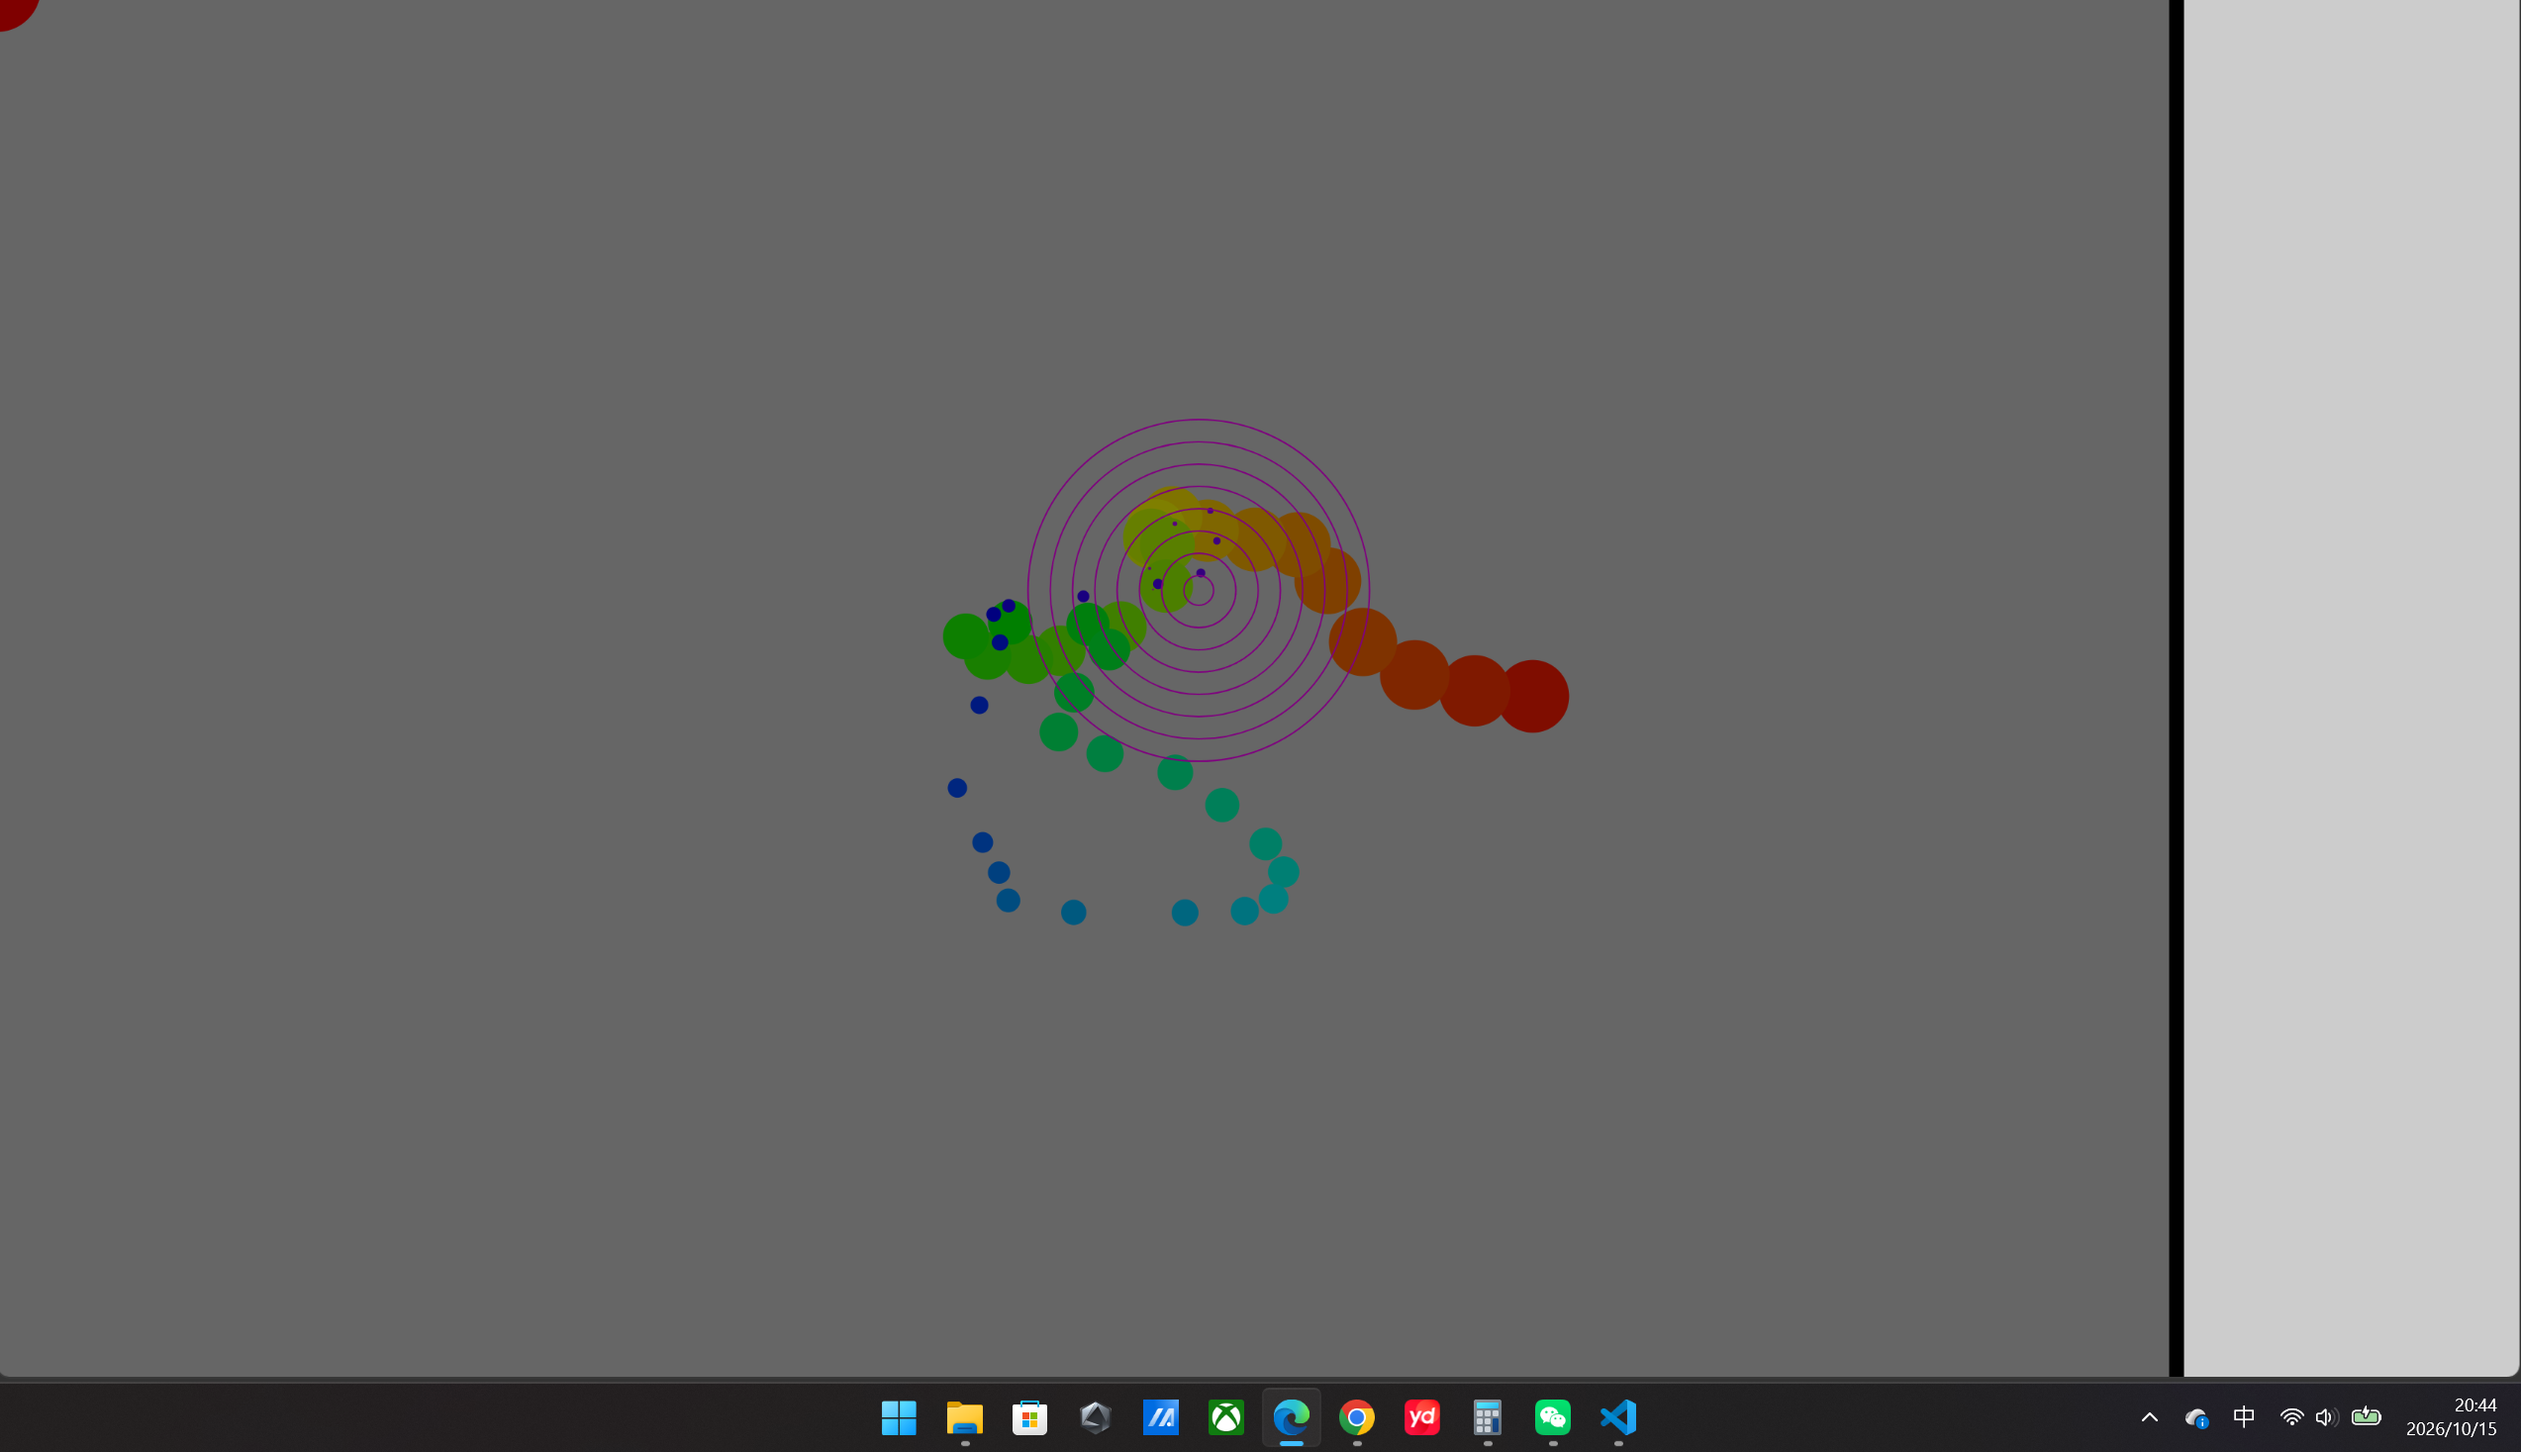
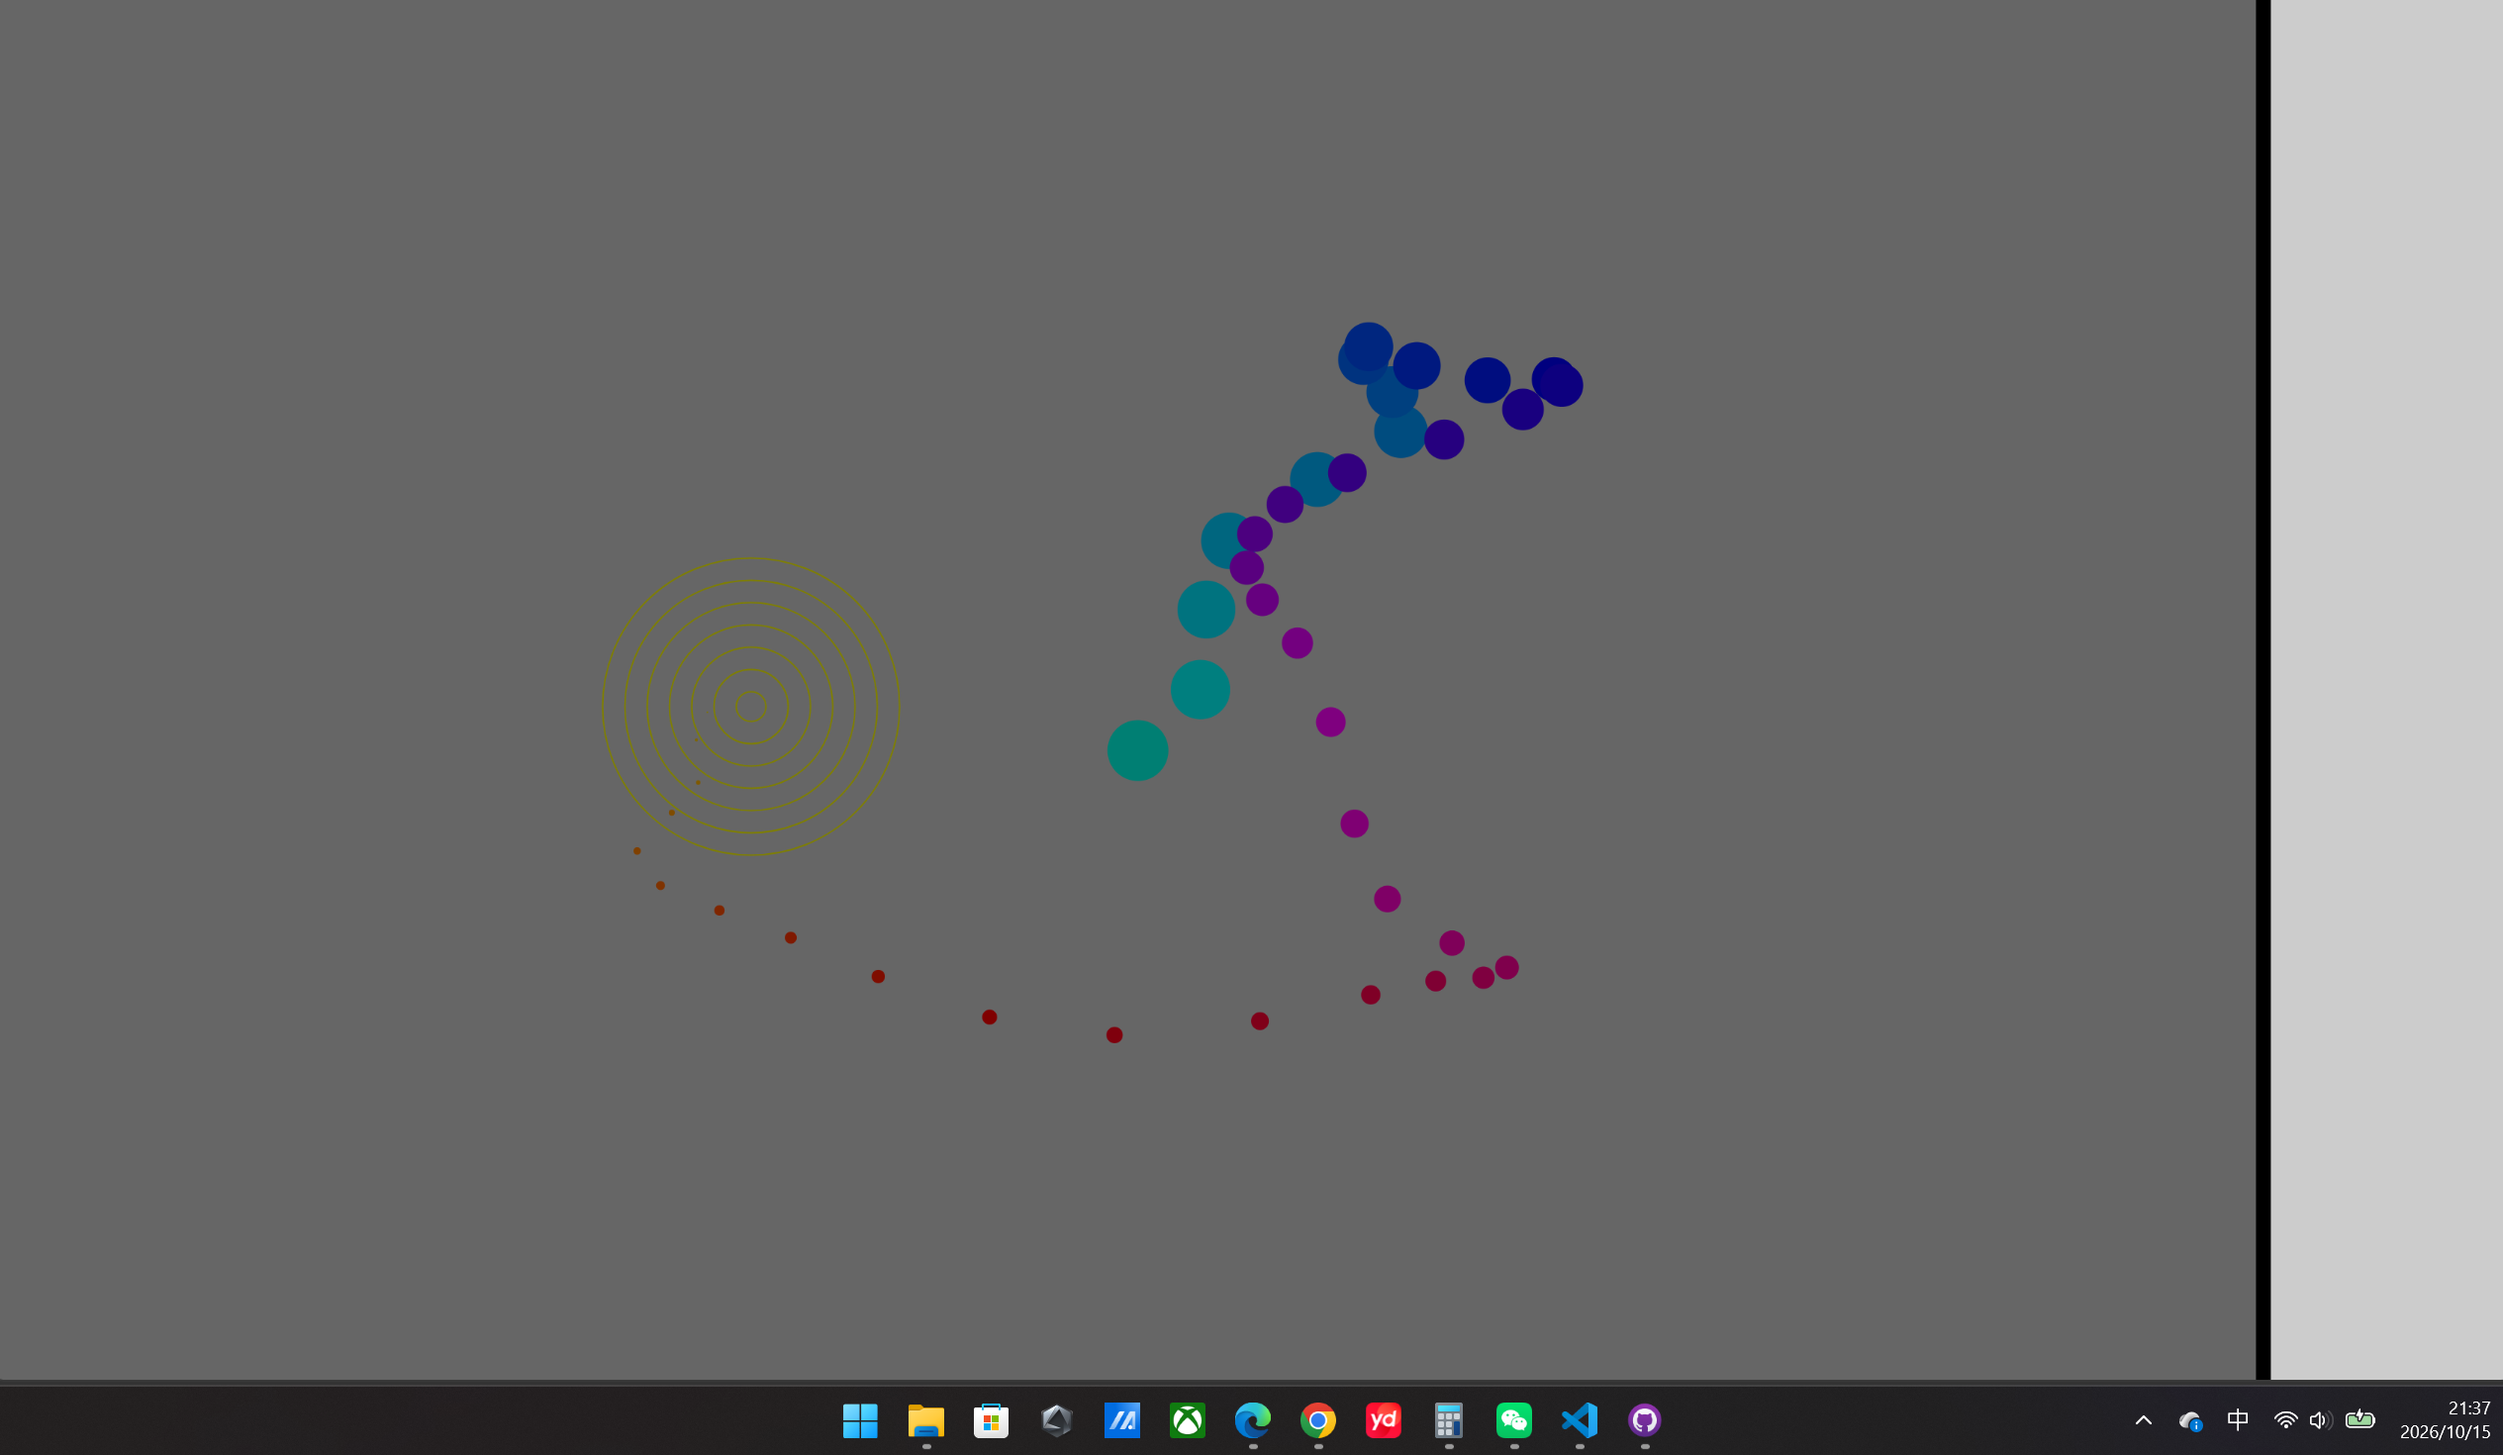
update png

diff --git a/week5.clock/sketch.js b/week5.clock/sketch.js
@@ -25,8 +25,8 @@ function setup() {
 
   //所有数组都用先用0来填充
   for(let i = 0; i < hist; i++){
-    posx[i] = 0;
-    posy[i] = 0;
+    posx[i] = -100;
+    posy[i] = -100;
     hue[i] = 0;
   }
 }
